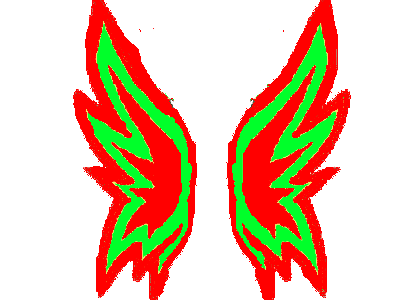
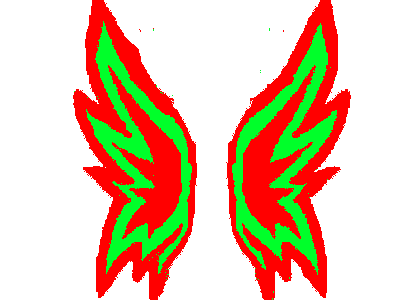
working on troll wings

diff --git a/javascripts/handle_sprites.js b/javascripts/handle_sprites.js
@@ -88,7 +88,7 @@ function wings(canvas,player){
 
   ctx = canvas.getContext('2d');
   //var num = player.quirk.favoriteNumber;
-  var num = 1;
+  var num = 3;
   var imageString = "wing"+num + ".png";
   addImageTag(imageString)
   var img=document.getElementById(imageString);
